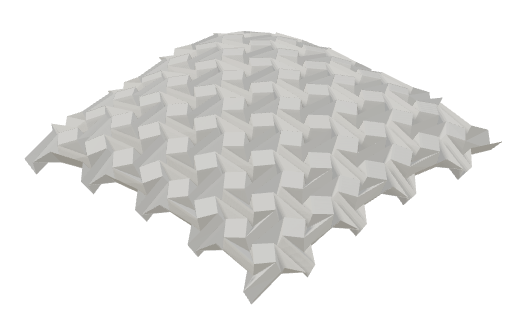
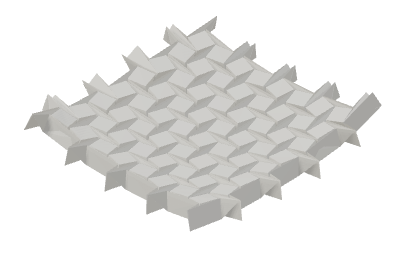
Match folded preview to paper color and expose 100 percent fold target

Changed region(s): [[0.0295, 0.0608, 0.973, 0.943], [0.2064, 0.4259, 0.2359, 0.4563]]

diff --git a/index.html b/index.html
@@ -1,1 +1,1 @@
-<!doctype html><html lang="en"><meta charset="utf-8"><meta name="viewport" content="width=device-width,initial-scale=1"><title>Origami Lab — From sheet to structure</title><link rel="stylesheet" href="lab.css"><body><header><a class="brand" href="./"><svg class="crane-logo" viewBox="0 0 64 48" aria-hidden="true" fill="none" stroke="currentColor" stroke-width="1.6" stroke-linejoin="round"><path fill="currentColor" fill-opacity=".14" d="M3 16 27 25 16 3 40 22 49 10 61 13 51 15 45 32 30 38 17 45 22 32Z"/><path d="M3 16 27 25 16 3 40 22 49 10 61 13 51 15 45 32 30 38 17 45 22 32Z M27 25 40 22 30 38 22 32 M16 3 30 38 M40 22 45 32 M49 10 51 15"/></svg> ORIGAMI <b>LAB</b></a><span>AN INTERACTIVE PAPER EXPERIMENT</span><label class="upload icon-button" title="Import FOLD file" data-tip="Import FOLD file"><span id="importIcon"></span><input aria-label="Import FOLD file" id="import" type="file" accept=".fold"></label></header><main><aside><p class="eyebrow">01 / THE COLLECTION</p><h1>From sheet<br>to structure.</h1><p class="intro">Did you know? “Origami” combines the Japanese words <em>ori</em> (folding) and <em>kami</em> (paper).</p><p id="count" class="eyebrow"></p><input id="search" type="search" placeholder="Find a fold…" aria-label="Find a fold"><nav id="patterns" aria-label="Fold collection"></nav><small>Powered by Amanda Ghassaei’s<br>Origami Simulator · MIT</small></aside><section class="studio"><div class="canvashead"><span id="title">Preparing paper…</span><span id="status" role="status">Loading</span></div><div id="viewport"></div><div class="hint">DRAG TO ORBIT · SCROLL TO ZOOM</div><div class="toolbar"><div id="views"><button data-view="surface" aria-pressed="true">Surface</button><button data-view="creases">Creases</button><button id="capture">Save screenshot</button></div><button id="camera">↗ Camera</button></div><div class="foldbox"><label for="fold">Drag to fold <output id="percent">35%</output></label><input id="fold" type="range" min="0" max="80" value="35"><div class="ends"><span>FLAT SHEET</span><span>FOLDED STRUCTURE</span></div><div class="actions"><button id="play">Pause simulation</button><button id="reset">↺ Reset</button></div></div></section><aside class="notes"><p class="eyebrow">02 / THE FOLDED FORM</p><figure class="finished"><img id="finishedImage" alt="Folded pattern reference"><figcaption id="finishedCaption">Folded reference · 80% target</figcaption></figure><h2 id="name"></h2><p id="description"></p><small id="credit"></small><section class="appearance" aria-label="Appearance"><fieldset><legend>Studio theme <span id="themeName"></span></legend><div id="themes" class="theme-options" role="group" aria-label="Studio themes"></div></fieldset><fieldset><legend>Paper color <span id="paperName"></span></legend><div id="paperColors" class="paper-options" role="group" aria-label="Paper colors"></div></fieldset></section><details><summary>Export this geometry</summary><p class="muted">Current simulated geometry, in normalized solver units.</p><button id="foldExport">FOLD</button><button id="meshExport">OBJ</button></details><p class="footnote">Creases move simultaneously. This is a simulation, not a folding tutorial or a guarantee of fabrication.</p></aside></main><script src="patterns.js"></script><script src="icons.js"></script><script src="appearance.js"></script><script src="lab.js"></script></body></html>
+<!doctype html><html lang="en"><meta charset="utf-8"><meta name="viewport" content="width=device-width,initial-scale=1"><title>Origami Lab — From sheet to structure</title><link rel="stylesheet" href="lab.css"><body><svg class="color-filter" aria-hidden="true" width="0" height="0"><defs><filter id="paperTint" color-interpolation-filters="sRGB"><feComponentTransfer><feFuncR id="paperTintR" type="table" tableValues="0 1"/><feFuncG id="paperTintG" type="table" tableValues="0 1"/><feFuncB id="paperTintB" type="table" tableValues="0 1"/><feFuncA type="identity"/></feComponentTransfer></filter></defs></svg><header><a class="brand" href="./"><svg class="crane-logo" viewBox="0 0 64 48" aria-hidden="true" fill="none" stroke="currentColor" stroke-width="1.6" stroke-linejoin="round"><path fill="currentColor" fill-opacity=".14" d="M3 16 27 25 16 3 40 22 49 10 61 13 51 15 45 32 30 38 17 45 22 32Z"/><path d="M3 16 27 25 16 3 40 22 49 10 61 13 51 15 45 32 30 38 17 45 22 32Z M27 25 40 22 30 38 22 32 M16 3 30 38 M40 22 45 32 M49 10 51 15"/></svg> ORIGAMI <b>LAB</b></a><span>AN INTERACTIVE PAPER EXPERIMENT</span><label class="upload icon-button" title="Import FOLD file" data-tip="Import FOLD file"><span id="importIcon"></span><input aria-label="Import FOLD file" id="import" type="file" accept=".fold"></label></header><main><aside><p class="eyebrow">01 / THE COLLECTION</p><h1>From sheet<br>to structure.</h1><p class="intro">Did you know? “Origami” combines the Japanese words <em>ori</em> (folding) and <em>kami</em> (paper).</p><p id="count" class="eyebrow"></p><input id="search" type="search" placeholder="Find a fold…" aria-label="Find a fold"><nav id="patterns" aria-label="Fold collection"></nav><small>Powered by Amanda Ghassaei’s<br>Origami Simulator · MIT</small></aside><section class="studio"><div class="canvashead"><span id="title">Preparing paper…</span><span id="status" role="status">Loading</span></div><div id="viewport"></div><div class="hint">DRAG TO ORBIT · SCROLL TO ZOOM</div><div class="toolbar"><div id="views"><button data-view="surface" aria-pressed="true">Surface</button><button data-view="creases">Creases</button><button id="capture">Save screenshot</button></div><button id="camera">↗ Camera</button></div><div class="foldbox"><label for="fold">Drag to fold <output id="percent">35%</output></label><input id="fold" type="range" min="0" max="100" value="35"><div class="ends"><span>FLAT SHEET</span><span>FOLDED STRUCTURE</span></div><div class="actions"><button id="play">Pause simulation</button><button id="reset">↺ Reset</button></div></div></section><aside class="notes"><p class="eyebrow">02 / THE FOLDED FORM</p><figure class="finished"><img id="finishedImage" alt="Folded pattern reference"><figcaption id="finishedCaption">Folded reference · 100% target</figcaption></figure><h2 id="name"></h2><p id="description"></p><small id="credit"></small><section class="appearance" aria-label="Appearance"><fieldset><legend>Studio theme <span id="themeName"></span></legend><div id="themes" class="theme-options" role="group" aria-label="Studio themes"></div></fieldset><fieldset><legend>Paper color <span id="paperName"></span></legend><div id="paperColors" class="paper-options" role="group" aria-label="Paper colors"></div></fieldset></section><details><summary>Export this geometry</summary><p class="muted">Current simulated geometry, in normalized solver units.</p><button id="foldExport">FOLD</button><button id="meshExport">OBJ</button></details><p class="footnote">Creases move simultaneously. This is a simulation, not a folding tutorial or a guarantee of fabrication.</p></aside></main><script src="patterns.js"></script><script src="icons.js"></script><script src="appearance.js"></script><script src="lab.js"></script></body></html>

diff --git a/appearance.js b/appearance.js
@@ -29,7 +29,7 @@ function renderAppearance(){
   document.querySelector('#paperName').textContent=appearance.paper;
   document.querySelectorAll('[data-theme]').forEach(b=>b.setAttribute('aria-pressed',String(b.dataset.theme===appearance.theme)));
   document.querySelectorAll('[data-paper]').forEach(b=>b.setAttribute('aria-pressed',String(b.dataset.paper===appearance.paper)));
-  saveAppearance();if(appearance.onChange)appearance.onChange();
+  updatePreviewColor();saveAppearance();if(appearance.onChange)appearance.onChange();
 }
 function applyAppearance(engine){
   const theme=studioThemes.find(t=>t.id===appearance.theme),hex=paperSwatches.find(p=>p[0]===appearance.paper)[1];
@@ -45,3 +45,21 @@ function applyAppearance(engine){
 for(const t of studioThemes){const b=document.createElement('button');b.className='theme-swatch';b.dataset.theme=t.id;b.dataset.tip=t.name+' theme';b.title=t.name+' theme';b.setAttribute('aria-label',t.name+' theme');b.style.background=t.bg;b.style.color=t.ink;b.innerHTML='<span aria-hidden="true">Aa</span>';b.onclick=()=>{appearance.theme=t.id;renderAppearance()};document.querySelector('#themes').append(b)}
 for(const [name,hex] of paperSwatches){const b=document.createElement('button');b.className='paper-swatch';b.dataset.paper=name;b.dataset.tip=name;b.title=name;b.setAttribute('aria-label',name+' paper');b.style.setProperty('--swatch','#'+hex);b.onclick=()=>{appearance.paper=name;renderAppearance()};document.querySelector('#paperColors').append(b)}
 renderAppearance();
+
+// Recolor the neutral render while preserving its shading and transparent alpha.
+// Invert/reapply the engine's Reinhard tone map and gamma-2 output per channel.
+function updatePreviewColor(){
+  const hex=paperSwatches.find(p=>p[0]===appearance.paper)[1];
+  const pigment=hex.match(/../g).map(h=>parseInt(h,16)/255),neutral=[1,1,240/255];
+  ['R','G','B'].forEach((channel,k)=>{
+    const values=Array.from({length:256},(_,i)=>{
+      const linear=Math.pow(i/255,2);
+      if(linear===1)return pigment[k]===0?'0':'1';
+      const radiance=linear/(1-linear)*pigment[k]/neutral[k];
+      return Math.sqrt(radiance/(1+radiance)).toFixed(6);
+    });
+    document.getElementById('paperTint'+channel).setAttribute('tableValues',values.join(' '));
+  });
+  const caption=document.getElementById('finishedCaption');
+  caption.textContent=caption.dataset.custom==='true'?'Imported form · '+appearance.paper:'Folded reference · '+appearance.paper+' · 100% target';
+}

diff --git a/lab.js b/lab.js
@@ -20,4 +20,13 @@ document.addEventListener('visibilitychange',()=>{if(document.hidden&&g)setRunni
 appearance.onChange=()=>{if(g)applyAppearance(g)};
 window.origami={patterns,loadPattern:id=>load(patterns.find(p=>p.id===id)),validate,getSnapshot:()=>({schemaVersion:1,revision,patternId:current?.id,status:$('#fold').disabled?'loading':(running?'running':'paused'),foldTargetPercent:+$('#fold').value,running,viewMode:mode,theme:appearance.theme,paperColor:appearance.paper,metrics:null}),geometry};load(patterns[0]);
 
-function updateReference(p){const img=$('#finishedImage');img.onerror=null;if(p.id==='custom'){const r=g.threeView.renderer;r.render(g.threeView.scene,g.threeView.camera);img.src=r.domElement.toDataURL('image/png');img.alt='Imported geometry';$('#finishedCaption').textContent='Imported form · initial geometry'}else{img.src='docs/finished/'+p.id+'.png';img.alt=p.name+' folded reference at 80% target';$('#finishedCaption').textContent='Folded reference · ivory paper · 80% target'}}
+function updateReference(p){
+ const img=$('#finishedImage');img.onerror=null;
+ $('#finishedCaption').dataset.custom=String(p.id==='custom');
+ if(p.id==='custom'){
+   const view=g.threeView,background=view.scene.background,color1=g.color1,color2=g.color2;
+   try{g.color1='fffff0';g.color2='d1d1c5';g.model.setMeshMaterial();view.scene.background=null;view.renderer.setClearColor(0,0);view.renderer.render(view.scene,view.camera);img.src=view.renderer.domElement.toDataURL('image/png');img.alt='Imported geometry'}
+   finally{g.color1=color1;g.color2=color2;g.model.setMeshMaterial();view.scene.background=background;view.renderer.render(view.scene,view.camera)}
+ }else{img.src='docs/finished/'+p.id+'.png';img.alt=p.name+' folded reference at 100% target'}
+ updatePreviewColor();
+}

diff --git a/lab.css b/lab.css
@@ -33,3 +33,5 @@ details{margin-top:10px}summary{cursor:pointer;font-size:12px}.notes details but
 
 .notes{background:var(--panel)}
 .notes{--muted:color-mix(in srgb,var(--ink) 80%,var(--panel))}
+
+.color-filter{position:absolute;pointer-events:none}.finished img{filter:url(#paperTint)}

diff --git a/tests/preview_color.py b/tests/preview_color.py
@@ -1,0 +1,27 @@
+from playwright.sync_api import sync_playwright
+from PIL import Image,ImageStat
+from pathlib import Path
+import io
+with sync_playwright() as p:
+ b=p.chromium.launch(args=['--no-sandbox','--use-angle=swiftshader','--enable-unsafe-swiftshader'])
+ page=b.new_page(viewport={'width':1440,'height':1000});errors=[];page.on('pageerror',lambda e:errors.append(str(e)))
+ page.goto('http://127.0.0.1:8080/Origami-Demo/');page.wait_for_function('origami.getSnapshot().patternId');page.wait_for_function('document.querySelector("#finishedImage").complete && document.querySelector("#finishedImage").naturalWidth>0')
+ page.get_by_role('button',name='Coral paper',exact=True).click();red=page.locator('#finishedImage').screenshot()
+ assert page.frames[1].evaluate('globals.color1')=='ff7f50'
+ assert 'Coral' in page.locator('#finishedCaption').inner_text()
+ page.get_by_role('button',name='Cornflower Blue paper',exact=True).click();blue=page.locator('#finishedImage').screenshot()
+ r=ImageStat.Stat(Image.open(io.BytesIO(red)).convert('RGB')).mean;c=ImageStat.Stat(Image.open(io.BytesIO(blue)).convert('RGB')).mean
+ assert r[0]>c[0]+5 and c[2]>r[2]+5,(r,c)
+ page.locator('[data-theme=midnight]').click();assert 'Cornflower Blue' in page.locator('#finishedCaption').inner_text()
+ for id in ['twist','miura']:
+  page.evaluate('(id)=>origami.loadPattern(id)',id);assert 'Cornflower Blue' in page.locator('#finishedCaption').inner_text()
+  assert page.frames[1].evaluate('globals.color1')=='6495ed'
+ page.set_viewport_size({'width':390,'height':844});assert page.locator('#fold').get_attribute('max')=='100'
+ page.locator('#fold').fill('100');page.locator('#fold').dispatch_event('input');page.wait_for_timeout(1500)
+ assert page.frames[1].evaluate('globals.creasePercent')==1;assert page.locator('#percent').inner_text()=='100%';page.evaluate('origami.geometry()')
+ page.locator('#fold').focus();page.keyboard.press('ArrowLeft');assert page.locator('#fold').input_value()=='99'
+ page.locator('#reset').click();page.wait_for_function('!document.querySelector("#fold").disabled');assert page.locator('#fold').input_value()=='35'
+ assert 'Cornflower Blue' in page.locator('#finishedCaption').inner_text();assert page.evaluate('document.documentElement.scrollWidth')==390
+ page.set_viewport_size({'width':1440,'height':1000});page.wait_for_function('document.querySelector("#finishedImage").complete');page.mouse.move(700,100);page.screenshot(path='docs/matched-preview.png')
+ print('PASS rendered preview pixel colors, live material color, theme/pattern/reset persistence, mobile 100% engine target, keyboard, finite geometry. Errors:',errors)
+ assert not errors;b.close()

diff --git a/tests/render_references.py b/tests/render_references.py
@@ -4,7 +4,9 @@ root=Path('/workspace/Origami-Demo')
 with sync_playwright() as p:
  b=p.chromium.launch(args=['--no-sandbox','--use-angle=swiftshader','--enable-unsafe-swiftshader']);page=b.new_page(viewport={'width':1440,'height':1000});page.goto('http://127.0.0.1:8080/Origami-Demo/');page.wait_for_function('origami.getSnapshot().patternId')
  for pat in page.evaluate('origami.patterns'):
-  page.evaluate('(id)=>origami.loadPattern(id)',pat['id']);page.locator('#fold').fill('80');page.locator('#fold').dispatch_event('input');page.wait_for_timeout(1600)
+  page.evaluate('(id)=>origami.loadPattern(id)',pat['id']);page.locator('#fold').fill('100');page.locator('#fold').dispatch_event('input');page.wait_for_timeout(2200)
+  data=page.evaluate('origami.geometry()');assert len(data['vertices_coords'])>0
+  print('FINITE 100%',pat['id'],len(data['vertices_coords']),flush=True)
   page.evaluate('''()=>{document.documentElement.style.setProperty('background','transparent','important');document.body.style.setProperty('background','transparent','important')}''')
   page.frames[1].evaluate('''()=>{document.documentElement.style.setProperty('background','transparent','important');document.body.style.setProperty('background','transparent','important');globals.threeView.scene.background=null;globals.threeView.renderer.setClearColor(0x000000,0)}''')
   rect=page.frames[1].evaluate('''()=>{const g=globals,T=THREE,r=g.threeView.renderer,c=g.threeView.camera;r.render(g.threeView.scene,c);const a=g.model.getPositionsArray(),mesh=g.model.getMesh()[0];let xs=[],ys=[];for(let i=0;i<a.length;i+=3){const v=new T.Vector3(a[i],a[i+1],a[i+2]);mesh.localToWorld(v);v.project(c);xs.push((v.x+1)*innerWidth/2);ys.push((1-v.y)*innerHeight/2)}const pad=22,x=Math.max(0,Math.min(...xs)-pad),y=Math.max(0,Math.min(...ys)-pad);return {x,y,width:Math.min(innerWidth,Math.max(...xs)+pad)-x,height:Math.min(innerHeight,Math.max(...ys)+pad)-y}}''')

diff --git a/tests/collection_range.py b/tests/collection_range.py
@@ -10,7 +10,7 @@ with sync_playwright() as p:
   try:
    page.evaluate('(id)=>origami.loadPattern(id)',pat['id']);assert page.evaluate('origami.getSnapshot().patternId')==pat['id']
    page.wait_for_timeout(700);a=page.evaluate('origami.geometry().vertices_coords')
-   page.locator('#fold').fill('80');page.locator('#fold').dispatch_event('input');page.wait_for_timeout(1000);d=page.evaluate('origami.geometry()')
+   page.locator('#fold').fill('100');page.locator('#fold').dispatch_event('input');page.wait_for_timeout(1000);d=page.evaluate('origami.geometry()')
    assert all(math.isfinite(c) for v in d['vertices_coords'] for c in v)
    assert max(abs(x-y) for v,w in zip(a,d['vertices_coords']) for x,y in zip(v,w))>1e-5
    assert all(0<=i<len(d['vertices_coords']) for f in d['faces_vertices'] for i in f)

diff --git a/docs/UPSTREAM.md b/docs/UPSTREAM.md
@@ -29,3 +29,7 @@ Camera framing now scales its zoom with viewport aspect ratio on initialization 
 `appearance.js` owns five UI/background palettes and 48 CSS named paper swatches. CSS variables theme the page; the adapter updates the renderer background, paper material, and crease line colors. Stored selections are validated before reuse and theme/paper settings remain independent across resets, imports and pattern changes. Theme changes preserve paper/crease visibility. The camera icon downloads a PNG of the current renderer; A/B comparison and observation challenges have been removed. Pre-rendered folded references keep this UI to a single live solver.
 
 Folded reference PNGs now preserve transparency. The renderer supports an alpha channel while the interactive scene still uses the selected theme background. The reference renderer temporarily clears the scene background and captures only the projected model bounds; the panel supplies the themed background at display time.
+
+## Full fold range and matched preview pigment
+
+The slider now exposes 0–100% on all viewport sizes. Its earlier 80% cap was an application-level prototype bound, not a browser or GPU limit. The right-hand reference is rendered at 100% and recolored with an SVG component-transfer filter. The lookup tables invert the neutral render's gamma-2 / Reinhard mapping, scale each channel by the selected pigment relative to Ivory, then reapply tone mapping. Alpha and existing shading are retained. This is a lightweight color approximation of the original neutral rendering; it adds no second solver or continuous render loop. Imported references are captured neutrally with transparent background before restoring the main material.

diff --git a/docs/VALIDATION.md b/docs/VALIDATION.md
@@ -49,3 +49,9 @@ The updated existing browser smoke suite also passed all three representative pa
 ## Publishing and panel background
 
 Header branding uses the original inline crane SVG; the introduction now explains the Japanese roots of “origami.” Local browser checks passed app startup, trivia/logo presence, 25 collection entries and mobile width. GitHub Pages publishes via the repository's Actions workflow. The right panel uses the existing theme's toned panel color; reference PNGs have transparent backgrounds so they blend with it.
+
+## Preview color and 100% target
+
+- `tests/render_references.py` exercised all 25 patterns at 100%, verified that geometry remained finite, and rendered transparent reference images at that target.
+- `tests/preview_color.py` passed: screenshot pixel-channel comparisons verified actual recoloring between Coral and Cornflower Blue; live material and preview labels agreed; selection survived theme/pattern/reset changes; a 390-pixel mobile viewport sent a target of exactly 1.0 to the engine and displayed 100%; keyboard decrement and reset worked; no page-level JavaScript errors.
+- The former 80% maximum was a prototype HTML bound. This change exposes the engine's full 0–100% target range on all screen sizes. These short browser checks do not establish convergence, collision avoidance or physical foldability. Some patterns become almost flat or tightly compressed at their full target.

diff --git a/docs/ATTRIBUTION.md b/docs/ATTRIBUTION.md
@@ -47,6 +47,6 @@ Paper grain is generated procedurally by Origami Lab; no external texture or ima
 
 Paper colors use the standardized keyword/hex mappings in [W3C CSS Color 4: Named Colors](https://www.w3.org/TR/css-color-4/#named-colors) (checked 2026-10-30). The UI adds spaces for readability, e.g. “Rebecca Purple” maps to `rebeccapurple` (`#663399`). Five studio palettes—Linen, Sage, Rose, Slate and Midnight—are custom coordinated combinations, not claims of standardized theme names. No runtime request is made to the specification or any palette service.
 
-`docs/finished/` contains browser captures of all 25 simulated patterns at an 80% fold target, rendered with neutral paper. These are illustrative folded references, not convergence or fabrication guarantees.
+`docs/finished/` contains browser captures of all 25 simulated patterns at a 100% fold target, rendered with neutral paper. These are illustrative folded references, not convergence or fabrication guarantees.
 
 The header crane is an original inline SVG illustration created for Origami Lab.

diff --git a/README.md b/README.md
@@ -19,7 +19,7 @@ Simulation does not provide human folding instructions, collision detection or a
 
 The action controls use icons with hover tooltips and accessible labels. The paper uses a rough, textured material with soft self-shadows; this is a visual treatment, not added physical thickness.
 
-Appearance: choose one of five studio themes and 48 named paper colors independently. Presets use swatches, with no color-wheel control. Preferences are stored locally in your browser. Folded reference images use neutral paper at an 80% target; they do not change when the live paper color changes.
+Appearance: choose one of five studio themes and 48 named paper colors independently. Presets use swatches, with no color-wheel control. Preferences are stored locally in your browser. Folded reference images show a 100% target and follow the selected paper color while preserving their shading. The fold slider spans 0–100% on desktop and mobile; it controls crease-angle targets, not elapsed progress or guaranteed convergence.
 
 ## GitHub Pages
 
